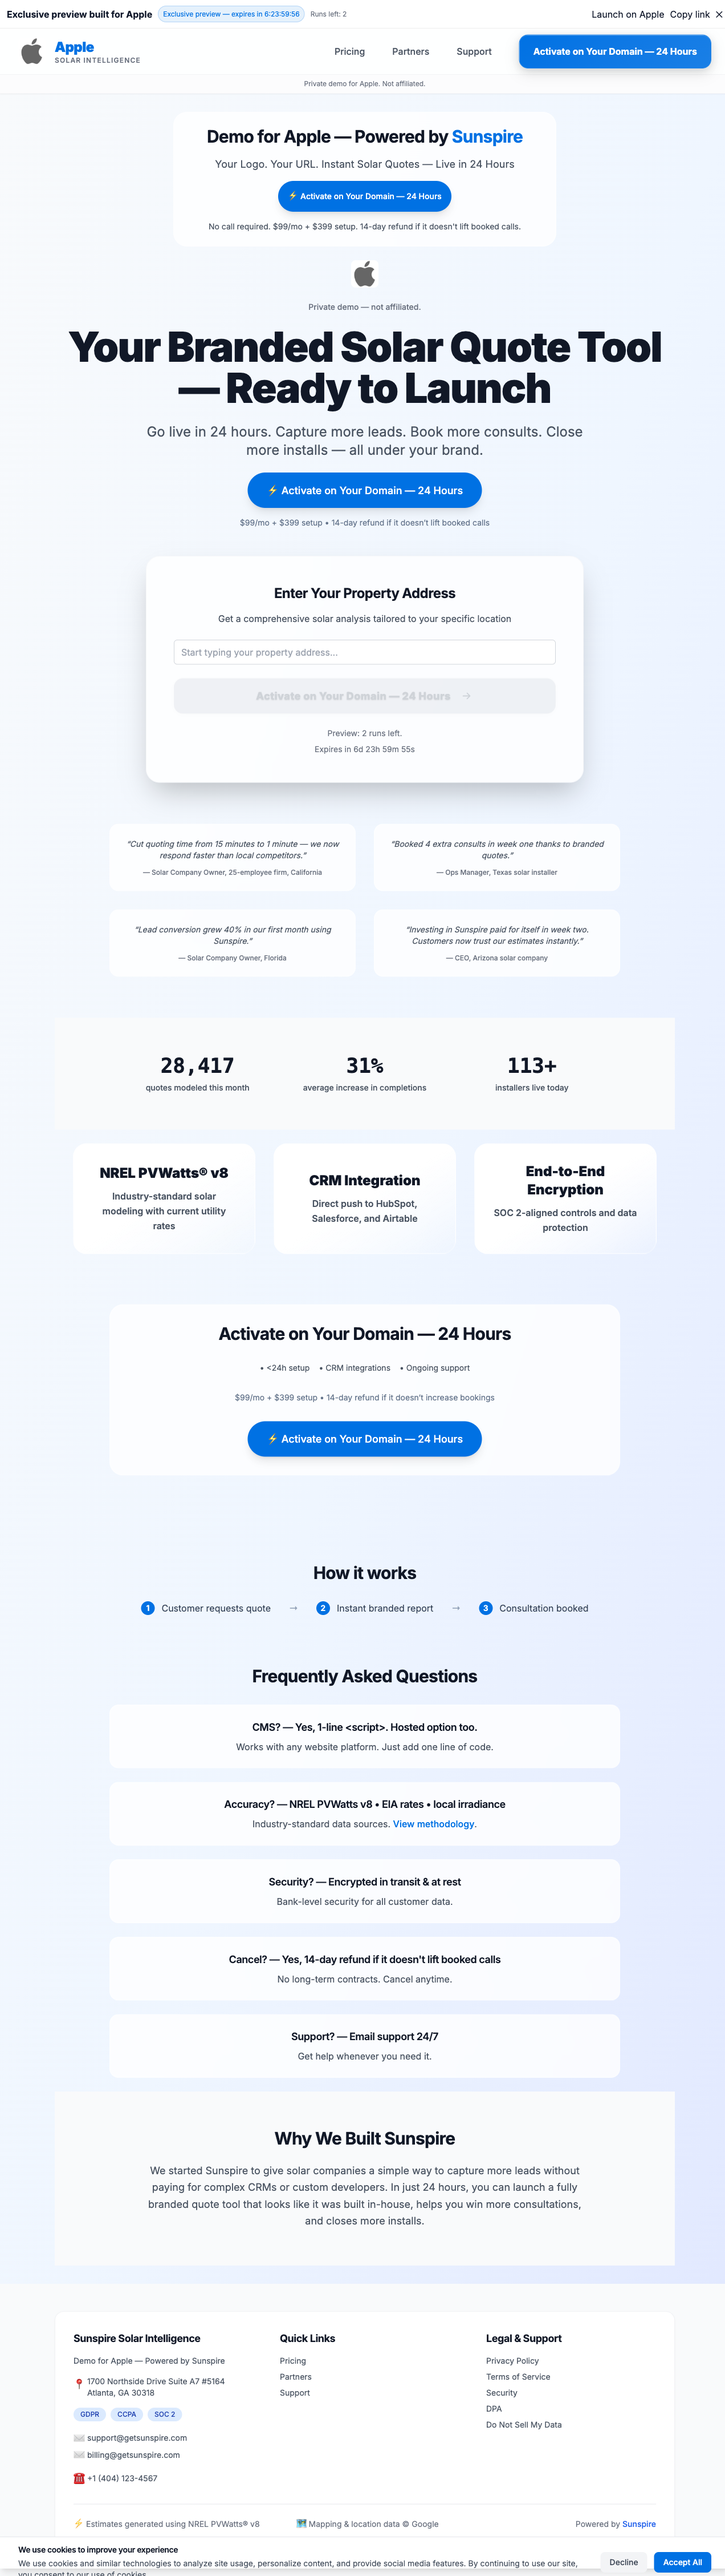
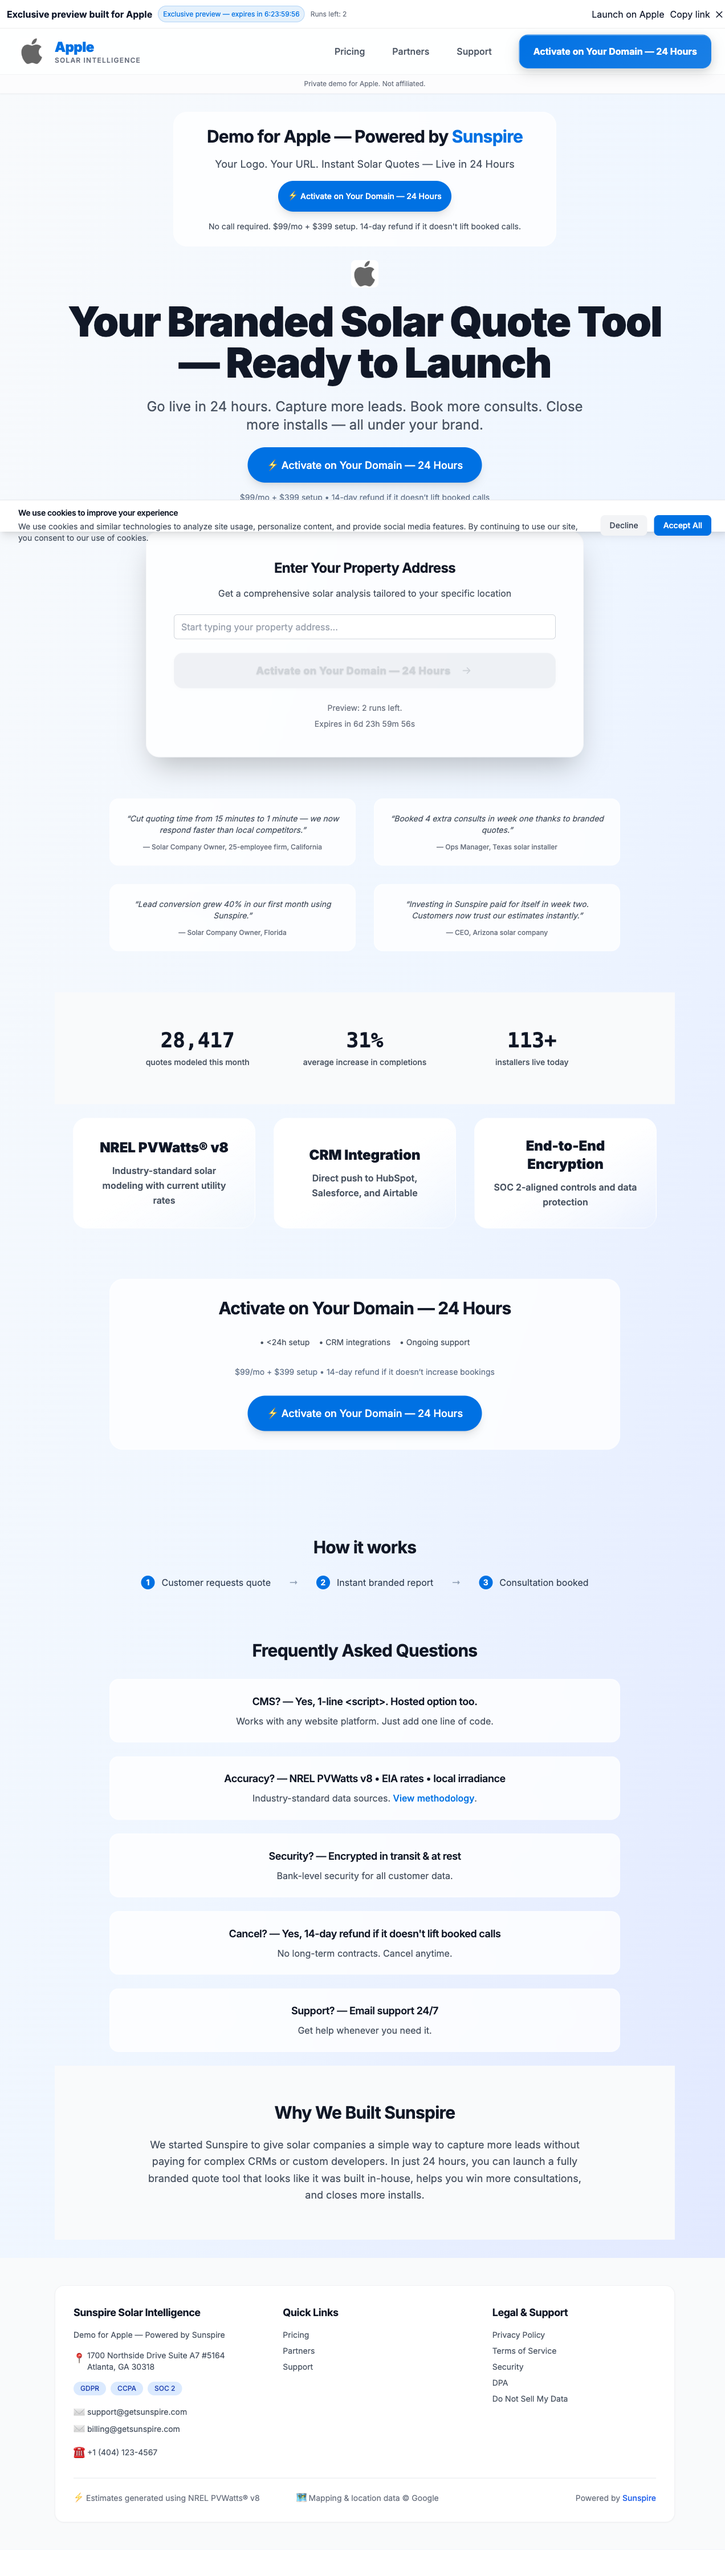
Remove 'Private demo' text, fix footer spacing, ensure feature card gradients are always visible

diff --git a/components/Footer.tsx b/components/Footer.tsx
@@ -11,7 +11,7 @@ export default function Footer() {
       <div className="max-w-6xl mx-auto px-4 sm:px-6 lg:px-8">
         {/* Main footer content in rounded card */}
         <div className="bg-white rounded-2xl p-8 shadow-sm border border-gray-200/50">
-          <div className="grid grid-cols-1 md:grid-cols-3 gap-8 md:gap-16">
+          <div className="grid grid-cols-1 md:grid-cols-3 gap-8 md:gap-20">
             {/* Column 1: Company Info */}
             <div className="space-y-4">
               <h3 className="text-lg font-bold text-gray-900">Sunspire Solar Intelligence</h3>

diff --git a/tests/footer.fast.spec.ts b/tests/footer.fast.spec.ts
@@ -26,6 +26,9 @@ test('footer is ≥120px and visually ok', async ({ page }) => {
   // Take a full page screenshot to see what's loading
   await page.screenshot({ path: 'debug-page.png', fullPage: true });
   
+  // Take a screenshot of just the footer
+  await page.screenshot({ path: 'footer-debug.png', fullPage: false });
+  
   // Check if footer exists
   const footerExists = await page.locator('[data-testid="footer"]').count() > 0;
   console.log('Footer exists:', footerExists);

diff --git a/app/page.tsx b/app/page.tsx
@@ -328,8 +328,6 @@ function HomeContent() {
           
           <div className="space-y-6">
             <div className="space-y-6">
-              {/* Eyebrow */}
-              <p className="text-sm text-gray-500 font-medium">Private demo — not affiliated.</p>
               
               <h1 className="text-5xl md:text-7xl font-black text-gray-900 leading-tight">
                 Your Branded Solar Quote Tool — Ready to Launch
